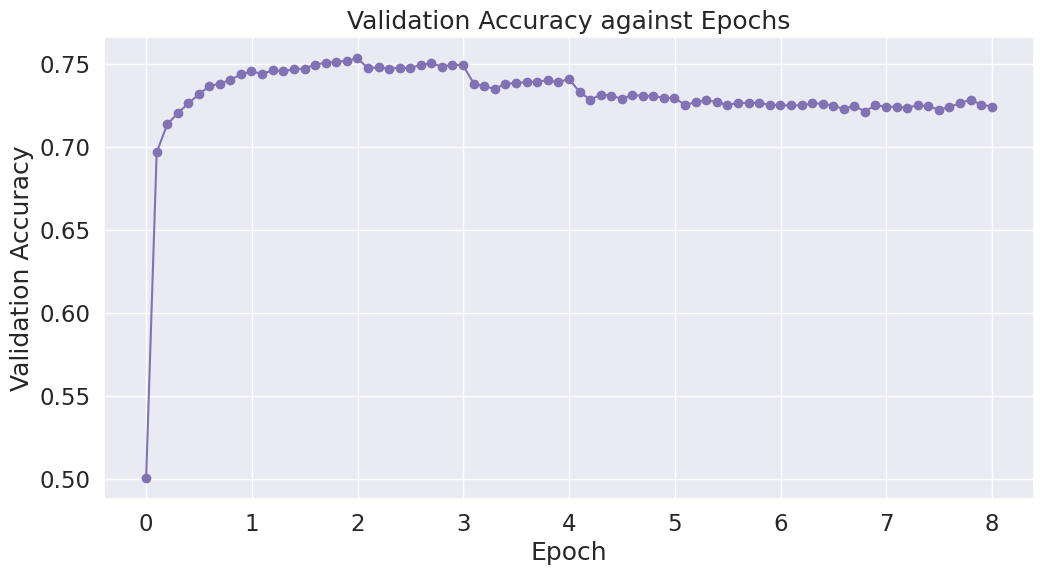
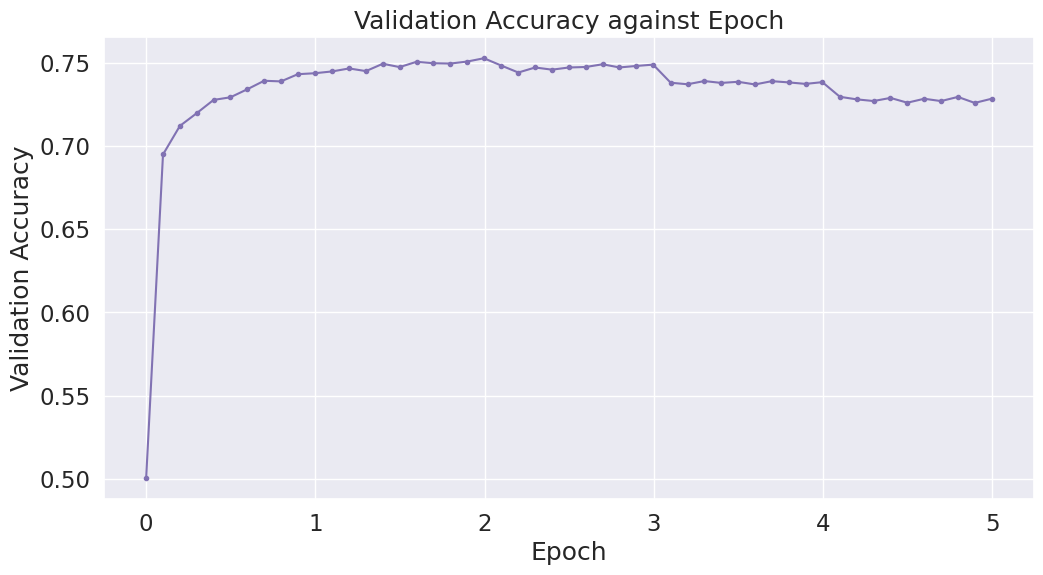
5 epochs

diff --git a/train.py b/train.py
@@ -234,21 +234,23 @@ def plot_loss(metrics):
     sns.set(style='darkgrid')
     sns.set(font_scale=1.5)
     plt.rcParams["figure.figsize"] = (12,6)
-    plt.title("Loss against Epochs")
-    plt.plot(epoch, train, 'b-o', label='Train')
-    plt.plot(epoch, valid, 'g-o', label='Valid')
+    plt.title("Loss against Epoch")
+    plt.plot(epoch, train, '.b-', label='Training')
+    plt.plot(epoch, valid, '.g-', label='Validation')
     plt.xlabel('Epoch')
     plt.ylabel('Loss')
     plt.legend()
     plt.savefig('loss.png', bbox_inches='tight')
+    plt.cla()
+    plt.clf()
 
 def plot_accuarcy(metrics):
     accuracy, epoch = metrics['valid_accuracy_list'], metrics['epoch_list']
     sns.set(style='darkgrid')
     sns.set(font_scale=1.5)
     plt.rcParams["figure.figsize"] = (12,6)
-    plt.title("Validation Accuracy against Epochs")
-    plt.plot(epoch, accuracy, 'm-o', label='Accuracy')
+    plt.title("Validation Accuracy against Epoch")
+    plt.plot(epoch, accuracy, '.m-', label='Accuracy')
     plt.xlabel('Epoch')
     plt.ylabel('Validation Accuracy')
     plt.savefig('accuracy.png', bbox_inches='tight')
@@ -279,9 +281,9 @@ if __name__ == "__main__":
     # Train
     model = LSTM().to(device)
     optimizer = optim.Adam(model.parameters(), lr=0.001)
-    scheduler = ExponentialLR(optimizer, gamma=0.70)
+    scheduler = ExponentialLR(optimizer, gamma=0.80)
     train(model=model, optimizer=optimizer, scheduler=scheduler, 
-    train_loader=train_iter, valid_loader=valid_iter, num_epochs=1, valid_every=len(train_iter)//10) # Evaluate 10 times per epoch
+    train_loader=train_iter, valid_loader=valid_iter, num_epochs=5, valid_every=len(train_iter)//10) # Evaluate 10 times per epoch
 
     # Validation
     trained_model = LSTM().to(device)
